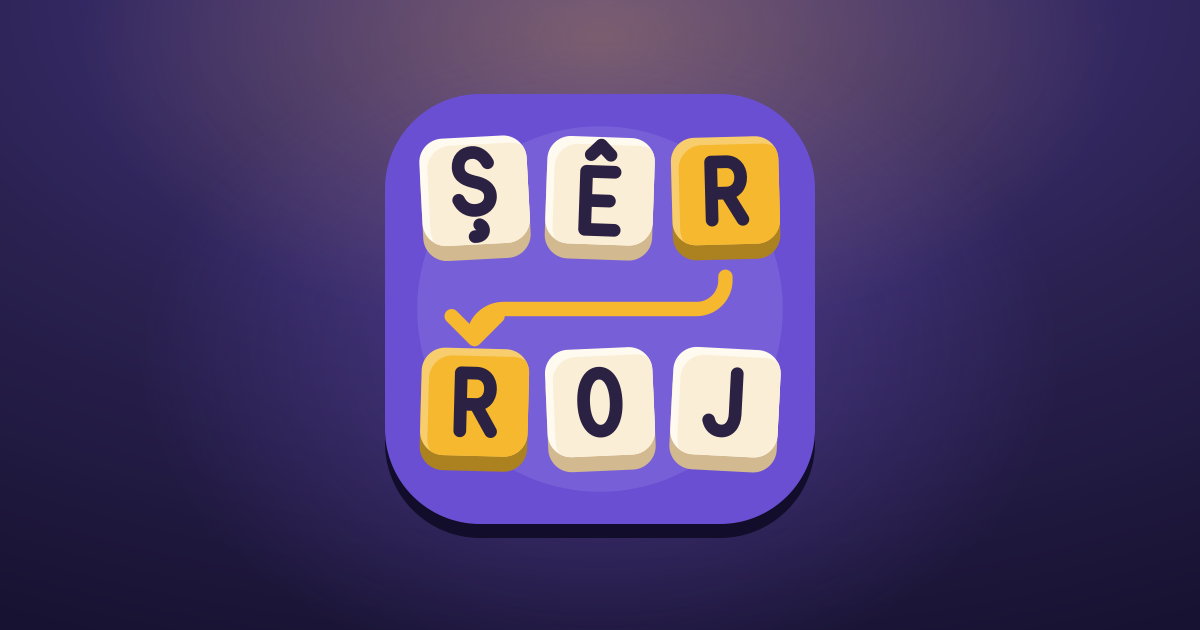
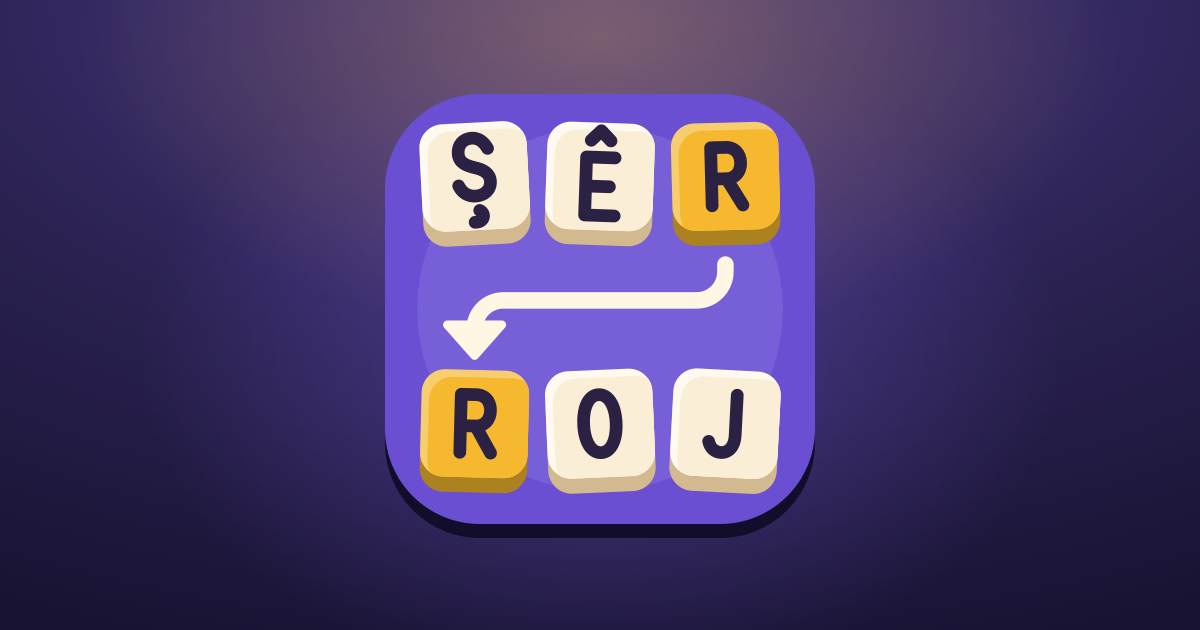
Five covers put right: the phone back under Peyvok, a fox that stands on its legs, a hound with a neck, an arrow that shows its head, an impostor who is a person
- Peyvok is a phone with the game on it again, as it was before, on a
  fuller green.
- The fox has a chest that leans into his step, a thigh, a shin and a
  white-socked paw to each leg, and a brush a tone darker so the leg in
  front of it is seen.
- The hound's coat comes up to his jaw: what shows of his neck is short and
  in the shade of his head.
- The last letter's arrow is white, with a whole head, and stops short of
  the tile it points at; the two words stand further apart to give it room.
- The impostor has shoulders, a collar turned up in two wings that meet
  under his eyes, and his face in the shadow of his hat.

Claude-Session: https://claude.ai/code/session_011eKY4xnopr5UAa1vaHj4wo

Changed region(s): [[0.3392, 0.181, 0.6475, 0.7841]]

diff --git a/shared/src/art/game-covers.ts b/shared/src/art/game-covers.ts
@@ -142,7 +142,8 @@ function tile(dr: Drawing, x: number, y: number, size: number, face: Tones, ch: 
 
 // ───────────────────────────────────────────────────────────── Peyvok
 
-const PINE = '#1c5a47';
+const MEADOW = '#86d6a4';
+const PHONE = '#3b2f63';
 const MARK = { gray: STEEL, yellow: GOLD, green: GREEN } as const;
 /** A game that ends on `heval`, friend, scored by the real rules: the guesses the app's front page shows. */
 const GUESSES: ReadonlyArray<readonly [string, ReadonlyArray<keyof typeof MARK>]> = [
@@ -150,29 +151,40 @@ const GUESSES: ReadonlyArray<readonly [string, ReadonlyArray<keyof typeof MARK>]
   ['SILAV', ['gray', 'gray', 'yellow', 'green', 'yellow']],
   ['HEVAL', ['green', 'green', 'green', 'green', 'green']],
 ];
-/** How far the board leans, and the point it leans about. */
-const LEAN = -5;
-const LEAN_AT = [60, 60] as const;
-/** A square of the board, and how far apart two of them stand. */
-const SQUARE = 19;
-const PITCH = 22.4;
-const squareAt = (c: number, r: number): readonly [number, number] => [5.7 + c * PITCH, 9 + r * PITCH];
+/** How far the phone leans, and the point it leans about. */
+const LEAN = -7;
+const LEAN_AT = [60, 66] as const;
+/** A square of the board, and where each one is on the phone's screen. */
+const SQUARE = 12.4;
+const squareAt = (c: number, r: number): readonly [number, number] => [24.6 + c * 14.6, 27 + r * 14.8];
 const leaning = (dr: Drawing, draw: () => void): void => turned(dr, LEAN, LEAN_AT[0], LEAN_AT[1], draw);
 
 /** One square of a guess: its mark's colour, its letter in white. */
 function guessed(dr: Drawing, c: number, r: number): void {
   const [x, y] = squareAt(c, r);
   const [word, marks] = GUESSES[r]!;
-  tile(dr, x, y, SQUARE, tones(MARK[marks[c]!]), word[c]!, WHITE, 2.6);
+  tile(dr, x, y, SQUARE, tones(MARK[marks[c]!]), word[c]!, WHITE, 1.5);
+}
+
+function peyvokPhone(dr: Drawing): void {
+  leaning(dr, () => {
+    // the phone, taller than the picture: its foot runs off the bottom edge
+    form(dr, rr(17, 6, 86, 150, 13), tones(PHONE), 4, 2.4);
+    fill(dr, rr(21.6, 11, 76.8, 140, 8.6), '#fffdf8');
+    fill(dr, rr(51, 14.4, 18, 4.4, 2.2), PHONE);
+    // the rows still to be guessed
+    for (let r = 2; r < 7; r++) for (let c = 0; c < 5; c++) line(dr, rr(...squareAt(c, r), SQUARE, SQUARE, 2.7), '#e6dece', 1.3);
+    for (let r = 0; r < 2; r++) for (let c = 0; c < 5; c++) guessed(dr, c, r);
+  });
 }
 
 /** When each square of the last guess turns over. */
 const turnsAt = (c: number): number => 0.2 + c * 0.075;
 
 /**
- * Peyvok: the board itself, as large as the cover. Two guesses are made, and
- * the third turns over square by square, every one of them green: heval. Two
- * of the letters Kurmancî adds lie on the rows still to be played, and nod.
+ * Peyvok: a phone with the game on it. Two guesses are made, and the third
+ * turns over square by square, every one of them green: heval. Two of the
+ * letters Kurmancî adds stand beside it and nod.
  */
 const peyvok: Cover = {
   title: GAME_NAMES.peyvok,
@@ -180,14 +192,11 @@ const peyvok: Cover = {
   parts: [
     {
       draw: (dr) => {
-        ground(dr, PINE);
-        leaning(dr, () => {
-          // the rows still to be guessed, as places a square will go
-          for (let r = 3; r < 6; r++) for (let c = 0; c < 5; c++) fill(dr, rr(...squareAt(c, r), SQUARE, SQUARE, SQUARE * 0.22), tint(PINE, 0.1));
-          for (let r = 0; r < 2; r++) for (let c = 0; c < 5; c++) guessed(dr, c, r);
-        });
+        ground(dr, MEADOW);
+        fill(dr, ring(60, 62, 50), tint(MEADOW, 0.22));
       },
     },
+    { draw: peyvokPhone },
     ...[0, 1, 2, 3, 4].map((c): Part => {
       const [x, y] = squareAt(c, 2);
       const bows = 0.7 + c * 0.035;
@@ -211,13 +220,13 @@ const peyvok: Cover = {
       };
     }),
     {
-      draw: (dr) => placed(dr, 25, 98, -13, 1, () => tile(dr, -16, -16, 32, CREAM, 'Ê', INK)),
-      pivot: [25, 98],
+      draw: (dr) => placed(dr, 17, 97, -13, 1, () => tile(dr, -13, -13, 26, CREAM, 'Ê', INK)),
+      pivot: [17, 97],
       keys: [[0, {}], [0.58, {}, 'hold'], [0.64, { y: -4, r: 5 }, 'out'], [0.72, { y: 0, r: 0 }, 'back'], [1, {}, 'hold']],
     },
     {
-      draw: (dr) => placed(dr, 93, 101, 10, 1, () => tile(dr, -14.5, -14.5, 29, CREAM, 'Û', INK)),
-      pivot: [93, 101],
+      draw: (dr) => placed(dr, 102, 100, 11, 1, () => tile(dr, -12, -12, 24, CREAM, 'Ş', INK)),
+      pivot: [102, 100],
       keys: [[0, {}], [0.62, {}, 'hold'], [0.68, { y: -4, r: -5 }, 'out'], [0.76, { y: 0, r: 0 }, 'back'], [1, {}, 'hold']],
     },
   ],
@@ -457,33 +466,44 @@ const SACK = '#d8ae78';
 const CAP = '#6170dc';
 
 const FOX_HEAD = 'M51 40C51 28 60 21 71 21C81 21 88 27 90 35L101 46C103.6 49 102 53.4 98 53.6C90 57 81 59 71 59C59 59 51 51 51 40Z';
-const FOX_BODY = 'M56 55C68 50 83 57 84 70C85 81 78 89 67 89C56 89 49 83 49 73C49 65 51 59 56 55Z';
+/** His jersey, drawn upright; he wears it leaning into his step. */
+const FOX_CHEST = rr(48.5, 53, 27, 34, 13.5);
+const leansIn = (dr: Drawing, draw: () => void): void => turned(dr, 22, 62, 70, draw);
 
 /** The sack on his back, and two of the words he took, looking out of the top of it. */
 function sack(dr: Drawing): void {
-  placed(dr, 38, 36, 14, 1, () => tile(dr, -8, -8, 16, CREAM, 'J', INK, 1.8));
-  placed(dr, 22.6, 38.6, -16, 1, () => tile(dr, -9.5, -9.5, 19, tones(GOLD), 'Û', INK, 2));
-  lit(dr, 'M11 66C9 53 18 44 31 44C42 44 50 49 53 57C56 66 54 79 46 85C36 91 20 89 14 79C12 75 11.6 70 11 66Z', SACK, 3.4, 0.2);
+  placed(dr, 40.6, 25, 14, 1, () => tile(dr, -8, -8, 16, CREAM, 'J', INK, 1.8));
+  placed(dr, 25, 27.6, -16, 1, () => tile(dr, -9.5, -9.5, 19, tones(GOLD), 'Û', INK, 2));
+  lit(dr, 'M15 55C13 43 21 33 34 33C45 33 52 38 55 46C58 55 56 67 48 72C38 77 23 75 18 67C16 63 15.6 59 15 55Z', SACK, 3.2, 0.2);
   // the cord its neck is drawn in with
-  line(dr, 'M15.6 55C25 50.6 38 50.6 48.6 55.6', tint(SACK, -0.36), 1.8);
+  line(dr, 'M19 44C28 39.6 40 39.6 50.6 44.6', tint(SACK, -0.36), 1.8);
 }
 
+/** His brush, low behind him: red, with the white tip every fox has. */
 function foxTail(dr: Drawing): void {
-  const tail = 'M54 80C42 79 26 86 15 99C10 105 14 113 22 113C37 113 51 104 60 90Z';
-  lit(dr, tail, FOX, 2.4, 0.18);
-  inside(dr, tail, () => fill(dr, 'M8 96C16 92 23 93 26 95C26 102 30 107 36 110L20 118H6Z', FUR));
+  const tail = 'M58 79C46 73 28 78 14 92C9.6 96.4 10 103 16 104.6C32 108 48 100 60 90Z';
+  // it is behind him, so a tone darker than the leg that crosses it
+  lit(dr, tail, tint(FOX, -0.1), 2.4, 0.16);
+  inside(dr, tail, () => fill(dr, 'M4 84H27C25 93 28 101 35 107L8 114Z', FUR));
+}
+
+/** A leg: the thigh, the thinner shin below the knee, and a white-socked paw on the tips of its toes. */
+type FoxLeg = readonly [hip: readonly [number, number], knee: readonly [number, number], ankle: readonly [number, number], toe: readonly [number, number]];
+function foxLeg(dr: Drawing, [hip, knee, ankle, toe]: FoxLeg, hex: string): void {
+  line(dr, `M${n(hip[0])} ${n(hip[1])}L${n(knee[0])} ${n(knee[1])}`, hex, 9.4);
+  line(dr, `M${n(knee[0])} ${n(knee[1])}L${n(ankle[0])} ${n(ankle[1])}`, hex, 6.8);
+  const turn = (Math.atan2(toe[1] - ankle[1], toe[0] - ankle[0]) * 180) / Math.PI;
+  placed(dr, (ankle[0] + toe[0]) / 2, (ankle[1] + toe[1]) / 2, turn, 1, () => fill(dr, oval(0.6, 0, 5, 3.3), FUR));
 }
 
 function foxBody(dr: Drawing): void {
-  // his legs: one foot down on the tips of its toes, the other lifted for the next step
-  line(dr, 'M61 85L56 94L53.4 99.6', tint(FOX, -0.14), 6);
-  line(dr, 'M72 85L81 89.4L83 96.4', tint(FOX, -0.14), 6);
-  fill(dr, oval(51.6, 101.4, 5, 2.9), INK);
-  fill(dr, oval(85.4, 98.4, 5, 2.9), INK);
-  lit(dr, FOX_BODY, PAPER, 2.6, 0.14);
-  inside(dr, FOX_BODY, () => {
-    turned(dr, -10, 66, 72, () => {
-      for (let y = 51; y < 96; y += 9.4) fill(dr, `M40 ${n(y)}H92V${n(y + 4.6)}H40Z`, INK);
+  // the leg he stands on, a tone darker for being the far one, and the leg lifted for the next step
+  foxLeg(dr, [[56, 85], [60.6, 95.6], [54, 104], [59.6, 107.4]], tint(FOX, -0.22));
+  foxLeg(dr, [[59, 85], [74.6, 89.6], [77.6, 100], [84, 103.4]], FOX);
+  leansIn(dr, () => {
+    lit(dr, FOX_CHEST, PAPER, 2.4, 0.14);
+    inside(dr, FOX_CHEST, () => {
+      for (let y = 56.4; y < 88; y += 8.6) fill(dr, `M42 ${n(y)}H82V${n(y + 4.3)}H42Z`, INK);
     });
   });
 }
@@ -512,12 +532,12 @@ function foxHead(dr: Drawing): void {
 
 function foxTorch(dr: Drawing): void {
   // the arm he holds it out on, and the torch in his paw
-  line(dr, 'M71 64L80 73L88 77', FOX, 6.2);
-  turned(dr, 14, 90, 78, () => {
-    fill(dr, rr(84, 74, 14, 8, 2.6), STEEL);
-    fill(dr, rr(96, 72, 5, 12, 1.8), tint(STEEL, 0.34));
+  line(dr, 'M70 58L79.6 68.4L88 73', FOX, 6.4);
+  turned(dr, 10, 90, 74, () => {
+    fill(dr, rr(85, 70, 14, 8, 2.6), STEEL);
+    fill(dr, rr(97, 68, 5, 12, 1.8), tint(STEEL, 0.34));
   });
-  fill(dr, ring(88, 77.4, 3.7), INK);
+  inked(dr, ring(88.4, 73.6, 3.7), FUR, 1.3);
 }
 
 /**
@@ -544,26 +564,26 @@ const thief: Cover = {
     {
       draw: (dr) => {
         ground(dr, NIGHT);
-        // the moon, and the rise he creeps along
+        // the moon, a few stars, and the rise he creeps along
         fill(dr, ring(104, 19, 10), '#ffe9a6');
         fill(dr, ring(108, 16.4, 8), NIGHT);
-        for (const [x, y, r] of [[14, 14, 1.3], [44, 9, 1], [112, 50, 1.2]] as const) fill(dr, ring(x, y, r), '#aeb6ee');
+        for (const [x, y, r] of [[8, 12, 1.3], [58, 7, 1], [112, 50, 1.2]] as const) fill(dr, ring(x, y, r), '#aeb6ee');
         fill(dr, 'M0 104C30 96 80 98 120 106V120H0Z', tint(NIGHT, -0.3));
       },
     },
     {
       // the light of the torch, thrown ahead of him
       draw: (dr) => {
-        fill(dr, 'M100.6 77.8L124 62V112L99 85Z', '#ffe27a', ' fill-opacity="0.86"');
-        fill(dr, 'M100.4 79.6L124 73V99L99.6 83.6Z', '#fff5cc');
+        fill(dr, 'M101.6 72.4L124 57V108L100.4 81Z', '#ffe27a', ' fill-opacity="0.86"');
+        fill(dr, 'M101.6 74.6L124 68.6V95L100.8 79.4Z', '#fff5cc');
       },
-      pivot: [99, 81],
+      pivot: [100, 77],
       keys: creeps(0, 2.2, [[0.66, {}, 'hold'], [0.72, { r: -12 }, 'out'], [0.84, {}, 'hold'], [0.92, { r: 0 }, 'inOut']]),
     },
-    { draw: foxTail, pivot: [58, 86], keys: creeps(0.04, 2.6, [[0.66, {}, 'hold'], [0.72, { r: 6 }, 'out'], [0.84, {}, 'hold'], [0.92, { r: 0 }, 'inOut']]) },
-    { draw: sack, pivot: [50, 60], keys: creeps(0.03, 3.4) },
+    { draw: foxTail, pivot: [58, 85], keys: creeps(0.04, 2.6, [[0.66, {}, 'hold'], [0.72, { r: 6 }, 'out'], [0.84, {}, 'hold'], [0.92, { r: 0 }, 'inOut']]) },
+    { draw: sack, pivot: [50, 52], keys: creeps(0.03, 3.4) },
     { draw: foxBody, keys: creeps(0, 2.2) },
-    { draw: foxTorch, pivot: [71, 64], keys: creeps(0, 2.2) },
+    { draw: foxTorch, pivot: [70, 58], keys: creeps(0, 2.2) },
     { draw: foxHead, pivot: [68, 54], keys: creeps(0.015, 2.6, [[0.64, {}, 'hold'], [0.69, { y: -2.4, r: -4 }, 'out'], [0.84, {}, 'hold'], [0.92, { y: 0, r: 0 }, 'inOut']]) },
   ],
 };
@@ -599,13 +619,13 @@ function pawPrint(dr: Drawing, cx: number, cy: number, k: number, hex: string, t
 }
 
 function houndCoat(dr: Drawing): void {
-  // his neck goes down into the coat: the head sits on it
-  fill(dr, 'M63 52H93L99 94H57Z', tint(HOUND, -0.12));
-  const cape = 'M32 124C34 100 44 86 60 82C72 79 92 79 102 83C114 88 119 102 121 124Z';
+  // what shows of his neck between his jaw and his collar, in the shade of his head
+  fill(dr, 'M64 58H96L100 84H60Z', tint(HOUND, -0.12));
+  const cape = 'M36 124C38 97 48 79 64 74C76 70 98 70 108 75C118 80 122 98 124 124Z';
   fill(dr, cape, TWEED);
-  check(dr, cape, [46, 62, 78, 94, 110], [97, 112]);
+  check(dr, cape, [50, 66, 82, 98, 114], [90, 106]);
   // the collar, turned down round his neck
-  const collar = 'M57 84C66 93.4 92 93.4 103 83C96 76.6 66 76.6 57 84Z';
+  const collar = 'M60 76C69 85.6 98 85.6 109 75C102 68.6 71 68.6 60 76Z';
   fill(dr, collar, tint(TWEED, -0.2));
 }
 
@@ -662,8 +682,8 @@ const detective: Cover = {
       },
     },
     { draw: houndCoat },
-    { draw: houndHead, pivot: [82, 60], keys: [[0, {}], [0.5, {}, 'hold'], [0.56, { r: -3 }, 'out'], [0.84, {}, 'hold'], [0.92, { r: 0 }, 'inOut'], [1, {}, 'hold']] },
-    { draw: houndCap, pivot: [82, 60], keys: [[0, {}], [0.5, {}, 'hold'], [0.56, { r: -3 }, 'out'], [0.84, {}, 'hold'], [0.92, { r: 0 }, 'inOut'], [1, {}, 'hold']] },
+    { draw: (dr) => placed(dr, 0, 3, 0, 1, () => houndHead(dr)), pivot: [82, 63], keys: [[0, {}], [0.5, {}, 'hold'], [0.56, { r: -3 }, 'out'], [0.84, {}, 'hold'], [0.92, { r: 0 }, 'inOut'], [1, {}, 'hold']] },
+    { draw: (dr) => placed(dr, 0, 3, 0, 1, () => houndCap(dr)), pivot: [82, 63], keys: [[0, {}], [0.5, {}, 'hold'], [0.56, { r: -3 }, 'out'], [0.84, {}, 'hold'], [0.92, { r: 0 }, 'inOut'], [1, {}, 'hold']] },
     {
       draw: houndGlass,
       pivot: [62, 112],
@@ -691,7 +711,7 @@ const CHAIN: ReadonlyArray<readonly [string, number, number, number, boolean]> =
   ['O', 1, 1, -2.5, false],
   ['J', 1, 2, 3, false],
 ];
-const linkAt = (row: number, place: number): readonly [number, number] => [10 + place * STEP, 12 + row * 59];
+const linkAt = (row: number, place: number): readonly [number, number] => [10 + place * STEP, 8 + row * 69];
 function link(dr: Drawing, i: number): void {
   const [ch, row, place, turn, shared] = CHAIN[i]!;
   const [x, y] = linkAt(row, place);
@@ -713,7 +733,7 @@ const laid = (i: number): Key[] => {
 /**
  * The last letter: two words in tiles, and the rule of the game drawn between
  * them — the letter one word ends on is the letter the next begins with. Both
- * are gold, and an arrow goes from the one to the other.
+ * are gold, and a white arrow goes from the one to the other.
  */
 const lastLetter: Cover = {
   title: GAME_NAMES['last-letter'],
@@ -728,8 +748,9 @@ const lastLetter: Cover = {
     {
       // from the end of the first word round to the start of the second
       draw: (dr) => {
-        line(dr, 'M95 51V52C95 56.4 91.4 60 87 60H33C28.6 60 25 63.6 25 67', GOLD, 4);
-        line(dr, 'M18.6 62L25 68.4L31.4 62', GOLD, 4);
+        // it stops short of the tile it points at, so its head is seen whole
+        line(dr, 'M95 47.6V49.6C95 54 91.4 57.6 87 57.6H33C28.6 57.6 25 61.2 25 65.6V66', PAPER, 4.6);
+        dr.add(`<path d="M17.4 64.4H32.6L25 73Z" fill="${PAPER}" stroke="${PAPER}" stroke-width="2.4" stroke-linejoin="round"/>`);
       },
       pivot: [95, 50],
       keys: [[0, {}], [0.05, {}, 'hold'], [0.09, { o: 0 }, 'in'], [0.2, {}, 'hold'], [0.3, { o: 1 }, 'out'], [1, {}, 'hold']],
@@ -744,21 +765,22 @@ const lastLetter: Cover = {
 // ───────────────────────────────────────────────────────────── the impostor
 
 const MUSTARD = '#f4b73b';
-const COAT = '#2a1f47';
-const SHADOW = '#3d2e68';
-const BAND = '#8a5bd6';
+/** His hat, and his face in the shadow of it. */
+const DARK = '#2a1f47';
+const COAT = '#4c3a96';
+const BAND = '#b79cf5';
 
 function stranger(dr: Drawing): void {
-  // the coat, and its collar turned up to his ears
-  fill(dr, 'M8 124L20 98C26 86 42 81 60 81C78 81 94 86 100 98L112 124Z', COAT);
-  fill(dr, oval(60, 62, 23, 24), SHADOW);
-  // each side of the collar, standing up past his cheek, and the fold it is turned on
-  fill(dr, 'M26 92L32.6 52L60 84Z', COAT);
-  fill(dr, 'M94 92L87.4 52L60 84Z', COAT);
-  line(dr, 'M28.6 90.4L60 84L91.4 90.4', tint(COAT, 0.2), 1.4);
-  line(dr, 'M33.6 55L60 84L86.4 55', BAND, 1.8);
-  line(dr, 'M60 101V124', tint(COAT, 0.2), 1.6);
-  for (const y of [107, 116.6]) fill(dr, ring(67, y, 2.1), BAND);
+  // the coat's shoulders, and the head between them, in the shadow of his hat
+  fill(dr, 'M2 124L9 106C11 97 20 91 32 89L50 85H70L88 89C100 91 109 97 111 106L118 124Z', COAT);
+  fill(dr, oval(60, 62, 20.6, 21), DARK);
+  // the collar turned up: two wings that stand out past his cheeks and meet under his eyes
+  fill(dr, 'M30 54L60 76L90 54C88 70 83 82 76.6 90.6H43.4C37 82 32 70 30 54Z', tint(COAT, 0.14));
+  line(dr, 'M30.6 54.6L60 76L89.4 54.6', BAND, 1.8);
+  // where the two wings meet, the lapels below them, and the coat done up
+  line(dr, 'M60 77V124', tint(COAT, -0.3), 1.8);
+  line(dr, 'M43.6 91L60 105L76.4 91', tint(COAT, -0.3), 1.6);
+  for (const x of [52.6, 67.4]) fill(dr, ring(x, 111.6, 2.2), tint(COAT, -0.34));
 }
 /** The whites of his eyes under the brim, which cuts them off level. */
 function strangerWhites(dr: Drawing): void {
@@ -769,17 +791,17 @@ function strangerEyes(dr: Drawing): void {
 }
 function strangerHat(dr: Drawing): void {
   turned(dr, -5, 60, 48, () => {
-    fill(dr, 'M16 49C30 43.6 90 43.6 104 49C104 52.6 90 56 60 56C30 56 16 52.6 16 49Z', COAT);
+    fill(dr, 'M16 49C30 43.6 90 43.6 104 49C104 52.6 90 56 60 56C30 56 16 52.6 16 49Z', DARK);
     const crown = 'M38 48C37 32 41 16 50 14C54.6 13 57 17.6 60 17.6C63 17.6 65.4 13 70 14C79 16 83 32 82 48C70 51 50 51 38 48Z';
-    fill(dr, crown, COAT);
+    fill(dr, crown, DARK);
     inside(dr, crown, () => fill(dr, 'M30 37H90V46H30Z', BAND));
-    line(dr, 'M18.6 50.4C34 55 86 55 101.4 50.4', tint(COAT, 0.2), 1.4);
+    line(dr, 'M18.6 50.4C34 55 86 55 101.4 50.4', tint(DARK, 0.22), 1.4);
   });
 }
 
 /**
  * The impostor: a stranger with his hat down and his collar up, and nothing
- * of him to be seen but his eyes — which go from one side to the other,
+ * of his face to be seen but his eyes — which go from one side to the other,
  * because he is the one who does not have the word.
  */
 const impostor: Cover = {

diff --git a/shared/src/art/art.test.ts b/shared/src/art/art.test.ts
@@ -957,7 +957,7 @@ describe('the games’ emblems', () => {
   it('shows each word game as the game is: Peyvok five letters wide, and words from the first lessons', () => {
     // every letter drawn on a cover is a path of the letters' own; counting them counts what is written
     const written = (game: (typeof GAME_EMBLEMS)[number]): number => gameEmblemSvg({ game }).split('stroke-linejoin="round" transform="translate(').length - 1;
-    // dayik, silav, heval on the board, and the two letters lying on the rows still to be played
+    // dayik, silav, heval on the board, and the two letters standing beside the phone
     expect(written('peyvok')).toBe(17);
     // dar and kar
     expect(written('rhyme')).toBe(6);

diff --git a/web/src/games/GameArt.test.tsx b/web/src/games/GameArt.test.tsx
@@ -29,7 +29,7 @@ describe('a game’s emblem', () => {
     expect(drawn).toHaveLength(layers.length);
     expect(container.querySelectorAll('svg')).toHaveLength(layers.length);
     // the torch's beam swings about the torch, not about the middle of the picture
-    expect(drawn[1]!.style.transformOrigin).toBe('99px 81px');
+    expect(drawn[1]!.style.transformOrigin).toBe('100px 77px');
     expect(container.querySelector('.gp-art--moving')?.getAttribute('aria-hidden')).toBe('true');
   });
 
